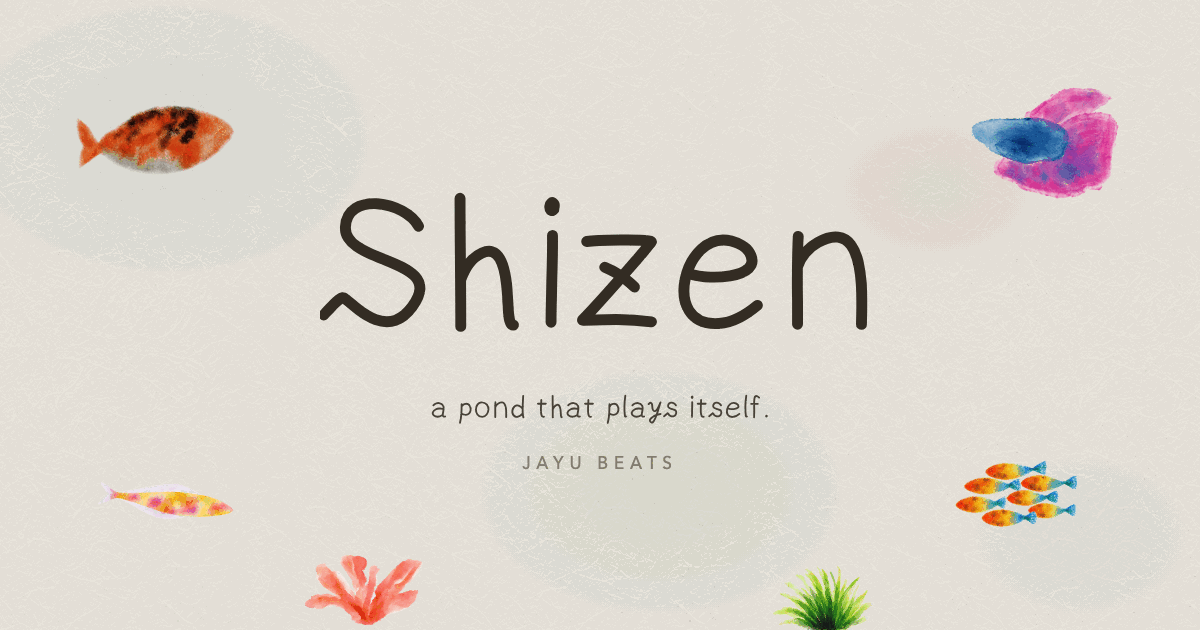
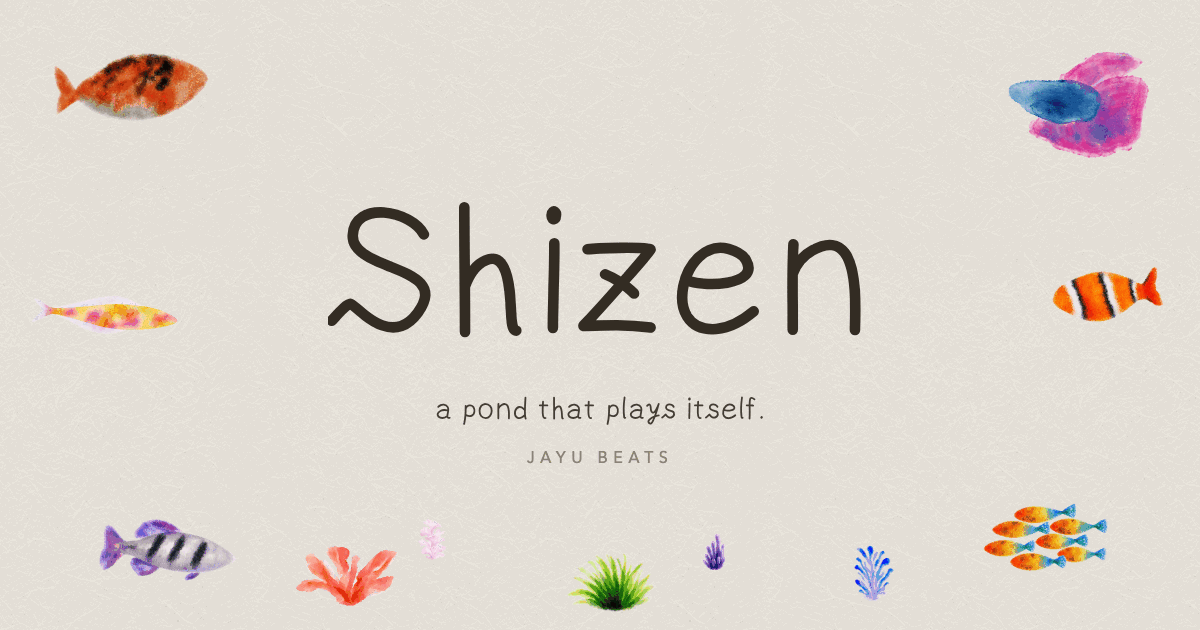
New Open Graph card - no gradients, more art, 15px margin

diff --git a/README.md b/README.md
@@ -32,10 +32,25 @@ Everything below is marked `TODO` in `index.html`. Search for it.
    tens of megabytes. Drop the `is-empty` class when you do. The boxes are
    sized `11 / 8` for the plugin window; change `aspect-ratio` on
    `.mode-media` if you record the pond alone.
-6. **Open Graph image.** `assets/img/og-card.png`, 1200×630, is what appears
-   when the link is pasted into Discord, X or iMessage. Not yet made. Also
-   set `og:image` to an absolute URL once the domain exists — relative URLs
-   do not resolve in most link unfurlers.
+6. ~~**Open Graph image.**~~ Done - `assets/img/og-card.png`, 1200×630, is
+   what a pasted link renders as in Discord, X or iMessage. Composed from the
+   site's own artwork and the omake wordmark outlines, so it needs no font and
+   stays licence-clean.
+
+   To change it: edit `tools/og-card.html`, then
+
+   ```sh
+   site/tools/make-og-card.sh        # render + quantise + install
+   python3 site/tools/check-og-card.py   # prove the margin still holds
+   ```
+
+   The checker enforces a 15px border with no art in it, and that nothing is
+   cropped. It measures rather than trusts the CSS: the card is rendered twice,
+   once with `img.art` hidden, and the difference IS the art wherever it
+   actually landed - a sprite's visible ink is smaller than its box by an
+   amount that differs per file, so the arithmetic cannot tell you.
+   `og:image` and `og:url` are absolute and name the live host - update both
+   when a real domain is pointed at the page.
 7. **A real screenshot.** The hero currently composes the plugin's own
    sprites into a pond, which looks right but is not the product. One honest
    screenshot of the actual window will sell it better than the composition.
